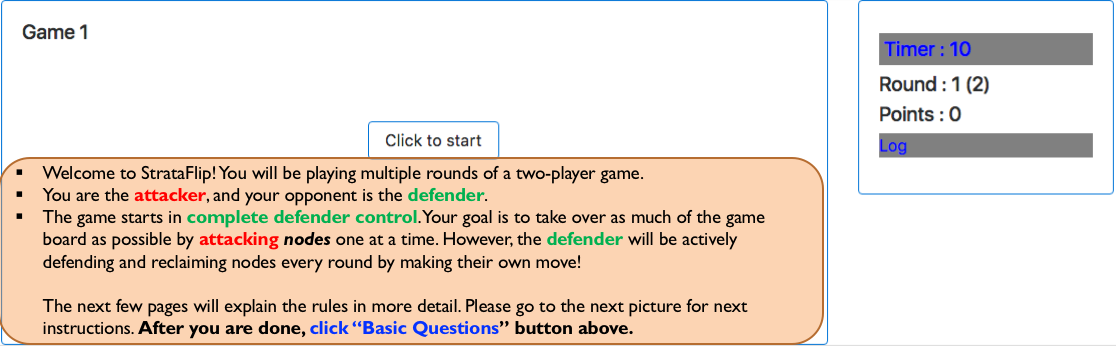
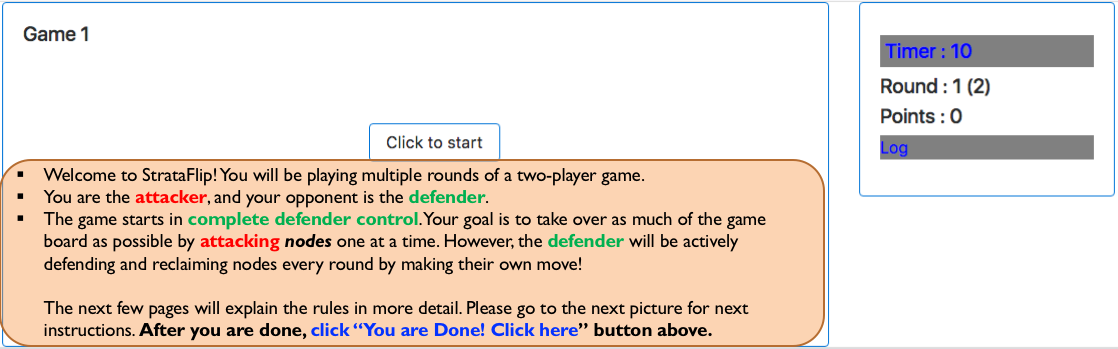
minor changes

diff --git a/resources/views/instruction/instruction-fullinfo.blade.php b/resources/views/instruction/instruction-fullinfo.blade.php
@@ -7,7 +7,7 @@
 
 
 
-<a href='{{ url("/instruction/concept") }}' style="margin-left: 440px; margin-bottom: 10px;" id="nextbutton" class="btn btn-primary disable">Basic Questions and answers</a>
+<a href='{{ url("/instruction/concept") }}' style="margin-left: 440px; margin-bottom: 10px;" id="nextbutton" class="btn btn-primary disable">You are Done! Click here</a>
 
 
 <div id="app">

diff --git a/resources/views/instruction/qaconceptual.blade.php b/resources/views/instruction/qaconceptual.blade.php
@@ -34,7 +34,7 @@
 						        <div class="form-check">
 						          <label class="form-check-label">
 						            <input class="form-check-input" type="radio" name="question_1"  value="1" >
-						            2
+						            8
 						          </label>
 						        </div>
 						        <div class="form-check">
